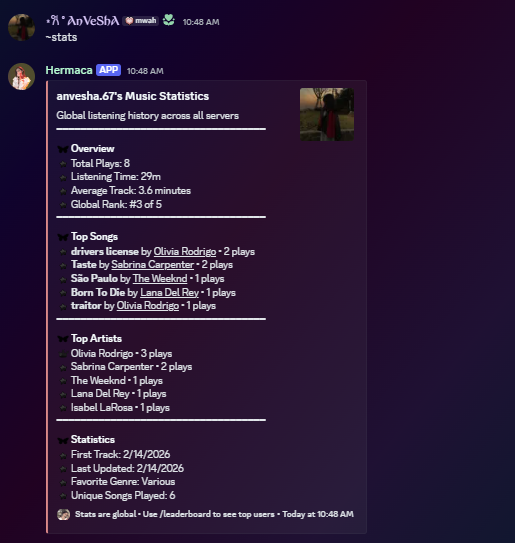
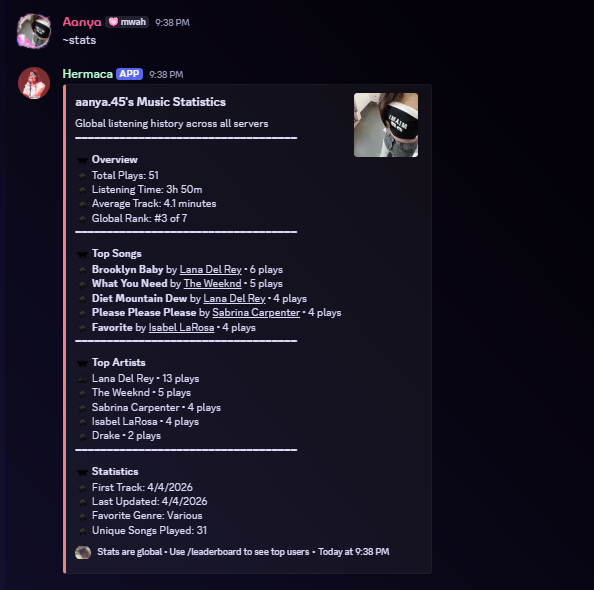
New images for README.md

diff --git a/README.md b/README.md
@@ -108,7 +108,7 @@ A feature-rich Discord music bot built with Discord.js, Riffy, and Lavalink. Thi
 | `/say <text>` | Make the bot say something |
 | `/purge <amount>` | Delete messages in bulk |
 
-> **Note:** All commands work as slash commands! Traditional prefix commands are also available (default prefix: `~`)
+> **Note:** All commands work as BOTH slash and traditional prefix commands (default prefix: `~`)
 
 ## Screenshots of a user using the Bot
 
@@ -131,25 +131,55 @@ A feature-rich Discord music bot built with Discord.js, Riffy, and Lavalink. Thi
 ### Statistics of a user
 ![Statistics](https://github.com/RXS-reyansh/Hermaca-Music-Bot/blob/main/images/stats.png?raw=true)
 
-###### Thanks to anvesha.67 for using the commands of the bot and providing these beautiful screenshots!
+### Lyrics display
+![Lyrics]()
 
----
+### Audio filters
 
-## Recommended Additional Screenshots 📸
+#### Nightcore
+![Nightcore Fitler]()
 
-Consider adding screenshots for:
-1. **Lyrics Display** – Show the `/lyrics` command output
-2. **Audio Filters** – Demonstrate applied filters (nightcore, vaporwave, deepbass, etc.)
-3. **Voice Channel Controls** – Show mute/deafen/disconnect features
-4. **Spotify Playlist Integration** – Display `/playspotify` in action
-5. **User Profile Customization** – Show server-specific avatar/banner/bio customization
-6. **Message Quote Generation** – The `/quote` command output (different from song-quote)
-7. **AFK Status** – Display `/afk` with reason and optional image
-8. **Member Information** – Show `/membercount` output
-9. **24/7 Mode Status** – Visual representation of persistent bot presence
-10. **Leaderboard** – Show the `/leaderboard` global stats view
+#### Darthvader
+![Darthvader Filter]()
 
-These screenshots would help users understand the full range of features your bot offers!
+#### Slowreverb
+![16d filter]()
+
+#### Clearing the filters
+![Clear all fitlers]()
+
+### Spotify Playlist integration**
+![Spotify]
+
+### Customizing the Bot's Server Profile
+
+#### Custom avatar
+![SetAvatar]()
+
+#### Custom banner
+![SetBanner]()
+
+#### Custom bio and change display name
+![SetBio and SetName]()
+
+#### Final result
+![Initial to Final Profile]()
+
+### Awesome AFK
+![AFK]()
+
+### Voice Channel Status
+
+#### When playing a song
+![Current song voice status]()
+
+#### When nothing is playing AND 24/7 is NOT enabled
+![Idle voice status]()
+
+#### When nothing is playing BUT 24/7 is enabled
+![24/7 voice status]()
+
+###### Thanks to aanya.45 for using the commands of the bot and providing these beautiful screenshots!
 
 <hr>
 
